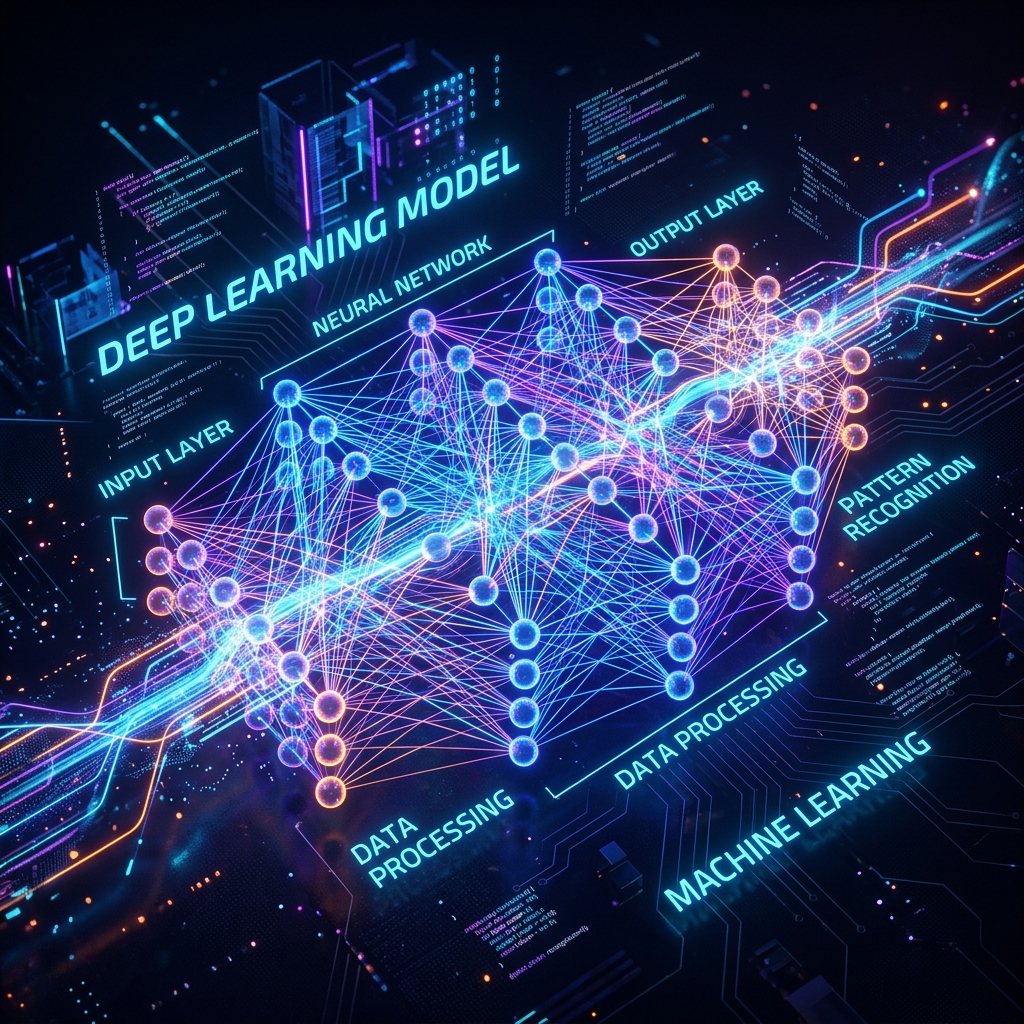
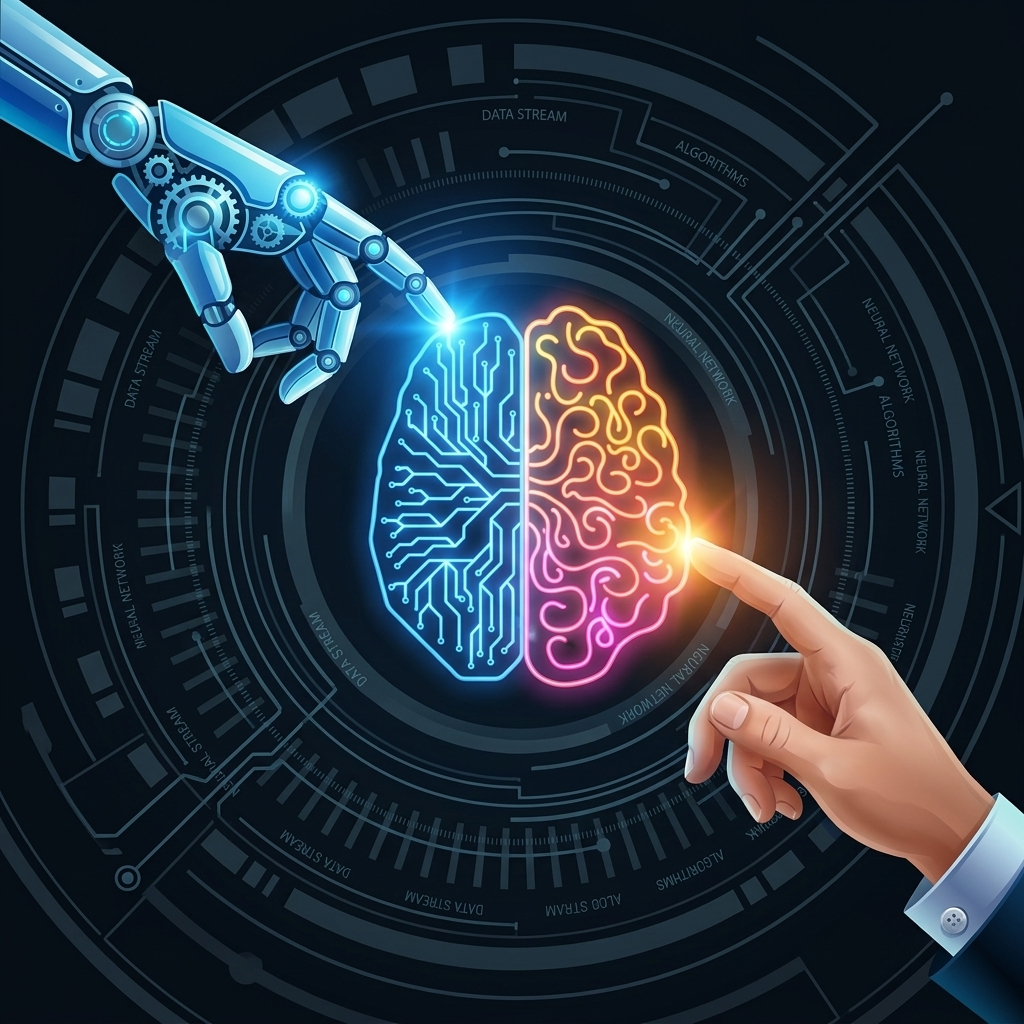
Update portfolio content and layout

diff --git a/src/components/degreeCard/DegreeCard.js b/src/components/degreeCard/DegreeCard.js
@@ -16,6 +16,7 @@ class DegreeCard extends Component {
                   maxWidth: "100%",
                   maxHeight: "100%",
                   transform: "scale(0.9)",
+                  borderRadius: "50%",
                 }}
                 src={require(`../../assets/images/${degree.logo_path}`)}
                 alt={degree.alt_name}
@@ -47,29 +48,19 @@ class DegreeCard extends Component {
               </div>
             </div>
             <div className="body-content">
-              {degree.descriptions.map((sentence) => {
-                return (
-                  <p className="content-list" style={{ color: theme.text }}>
-                    {sentence}
-                  </p>
-                );
-              })}
-              {degree.website_link && (
-                <a
-                  href={degree.website_link}
-                  target="_blank"
-                  rel="noopener noreferrer"
-                >
-                  <div
-                    className="visit-btn"
-                    style={{ backgroundColor: theme.headerColor }}
-                  >
-                    <p className="btn" style={{ color: theme.text }}>
-                      Visit Website
-                    </p>
-                  </div>
-                </a>
-              )}
+              <ul style={{ listStyleType: "disc", paddingLeft: "20px", margin: "0" }}>
+                {degree.descriptions.map((sentence, i) => {
+                  return (
+                    <li
+                      key={i}
+                      className="content-list"
+                      style={{ color: theme.text, marginBottom: "8px" }}
+                    >
+                      {sentence.replace(/^⚡\s*/, "")}
+                    </li>
+                  );
+                })}
+              </ul>
             </div>
           </div>
         </Fade>

diff --git a/src/containers/skills/SkillSection.js b/src/containers/skills/SkillSection.js
@@ -10,12 +10,11 @@ function GetSkillSvg(props) {
     return (
       <img
         alt="Artificial Intelligence & Deep Learning"
-        src={require("../../assets/images/home/aidl.jpg")}
+        src={require("../../assets/images/home/aidl.png")}
         style={{
           width: "100%",
           borderRadius: "15px",
           boxShadow: "rgba(0, 0, 0, 0.15) 0px 10px 30px -5px",
-          imageRendering: "-webkit-optimize-contrast",
         }}
       />
     );
@@ -23,12 +22,11 @@ function GetSkillSvg(props) {
     return (
       <img
         alt="Natural Language Processing & AI Web Apps"
-        src={require("../../assets/images/home/nlpwebai.jpg")}
+        src={require("../../assets/images/home/nlpwebai.png")}
         style={{
           width: "100%",
           borderRadius: "15px",
           boxShadow: "rgba(0, 0, 0, 0.15) 0px 10px 30px -5px",
-          imageRendering: "-webkit-optimize-contrast",
         }}
       />
     );
@@ -36,12 +34,11 @@ function GetSkillSvg(props) {
     return (
       <img
         alt="Data Engineering & Analytics"
-        src={require("../../assets/images/home/dea.jpg")}
+        src={require("../../assets/images/home/dea.png")}
         style={{
           width: "100%",
           borderRadius: "15px",
           boxShadow: "rgba(0, 0, 0, 0.15) 0px 10px 30px -5px",
-          imageRendering: "-webkit-optimize-contrast",
         }}
       />
     );
@@ -76,19 +73,19 @@ class SkillSection extends Component {
                   <SoftwareSkill logos={skill.softwareSkills} />
                 </Fade>
                 <Fade right duration={2000}>
-                  <div>
+                  <ul style={{ listStyleType: "disc", paddingLeft: "20px", margin: "0" }}>
                     {skill.skills.map((skillSentence, i) => {
                       return (
-                        <p
+                        <li
                           key={i}
                           className="subTitle skills-text"
-                          style={{ color: theme.secondaryText }}
+                          style={{ color: theme.secondaryText, marginBottom: "10px" }}
                         >
-                          {skillSentence}
-                        </p>
+                          {skillSentence.replace(/^⚡\s*/, "")}
+                        </li>
                       );
                     })}
-                  </div>
+                  </ul>
                 </Fade>
               </div>
             </div>

diff --git a/src/components/degreeCard/DegreeCard.css b/src/components/degreeCard/DegreeCard.css
@@ -20,14 +20,19 @@
 }
 
 .card-img {
-  width: 200px;
-  height: auto;
+  width: 150px;
+  height: 150px;
+  min-width: 150px;
+  min-height: 150px;
   border-radius: 50%;
   padding: 10px;
   border: 1px solid #d9dbdf;
-  /* background-color: #6c63ff; */
-  /* background: transparent; */
   box-shadow: 5px 5px 5px #d9dbdf;
+  display: flex;
+  justify-content: center;
+  align-items: center;
+  overflow: hidden;
+  background-color: #ffffff;
 }
 
 .body-header {
@@ -131,7 +136,10 @@
   }
 
   .card-img {
-    width: 200px;
+    width: 150px;
+    height: 150px;
+    min-width: 150px;
+    min-height: 150px;
   }
 
   .card-body {

diff --git a/src/containers/education/Educations.js b/src/containers/education/Educations.js
@@ -12,7 +12,7 @@ class Educations extends Component {
         <div className="educations-header-div">
           <Fade bottom duration={2000} distance="20px">
             <h1 className="educations-header" style={{ color: theme.text }}>
-              Degrees Received
+              Education
             </h1>
           </Fade>
         </div>